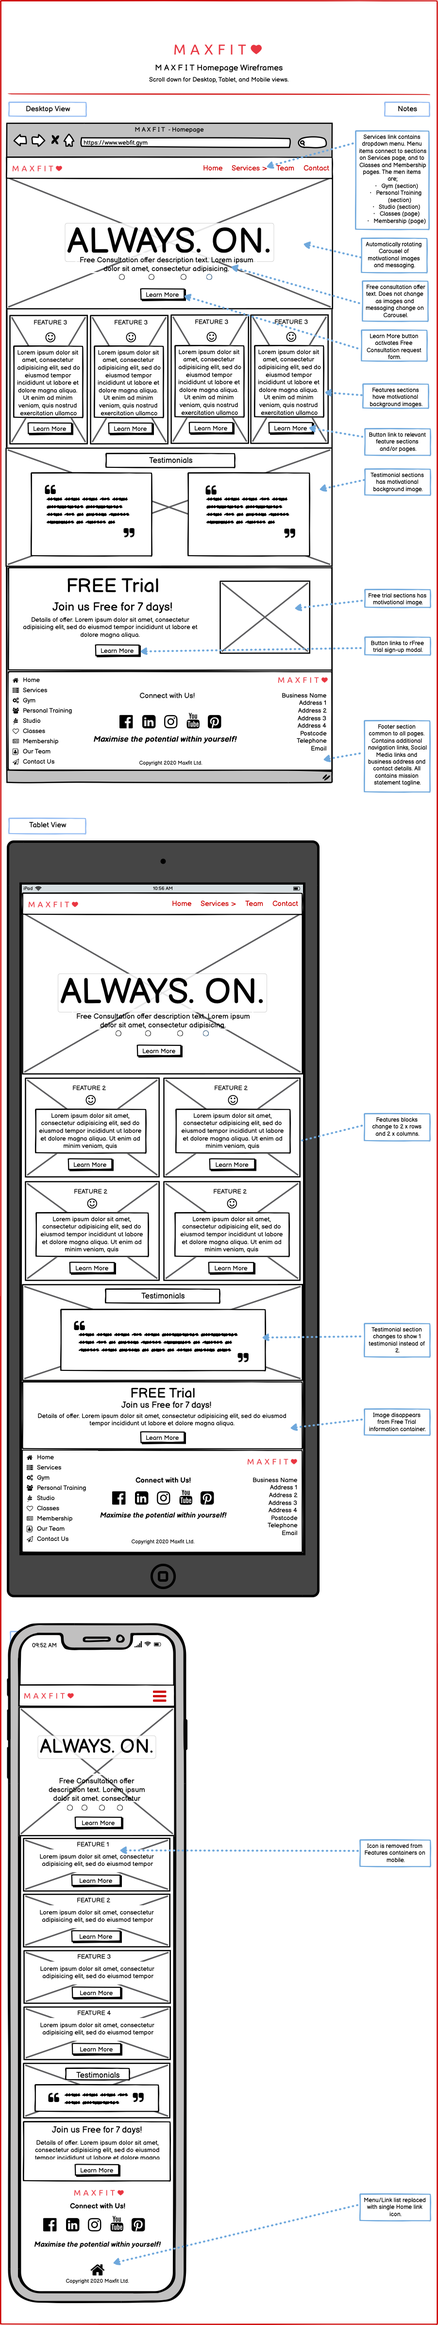
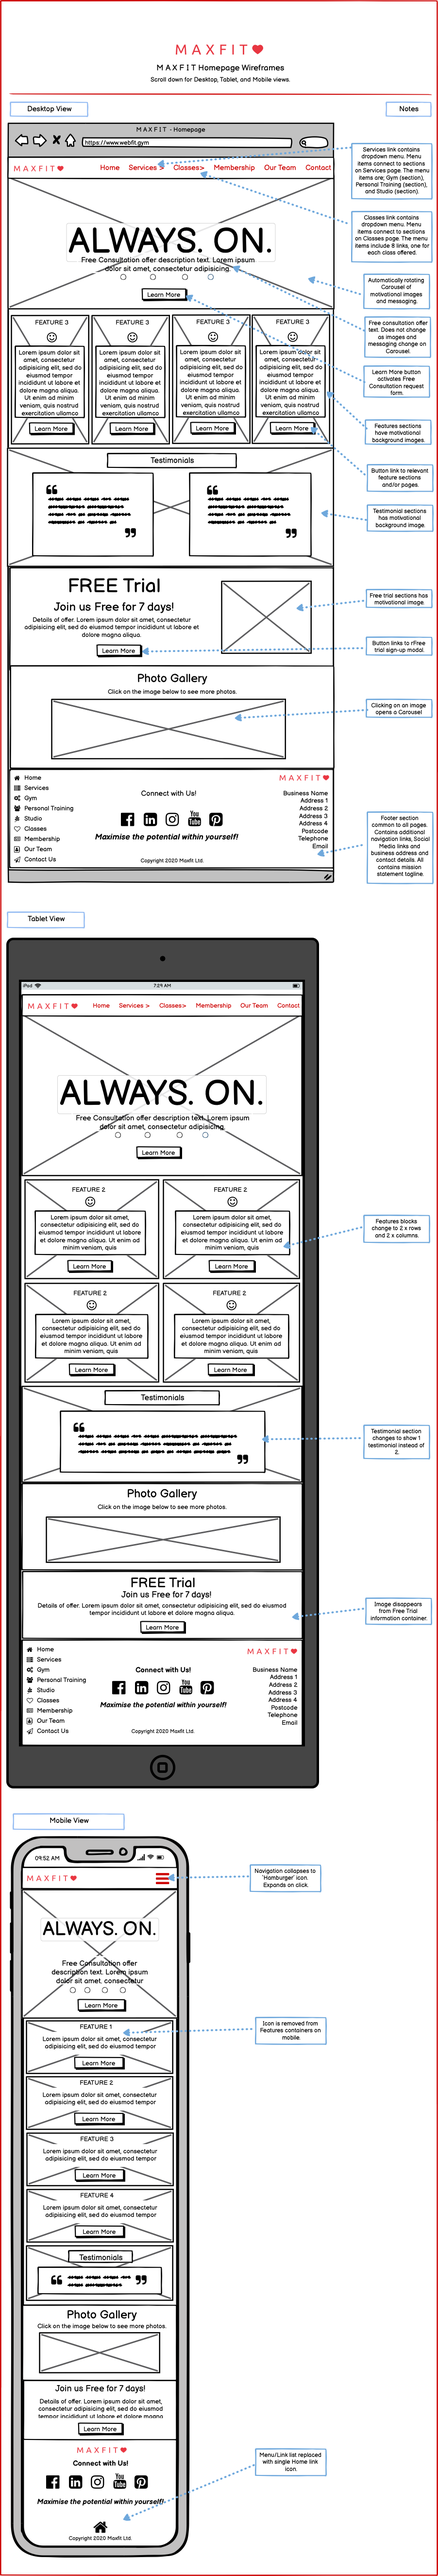
Update homepage wireframe and sitemap

diff --git a/index.html b/index.html
@@ -9,12 +9,36 @@
     <title>M A X F I T - Home</title>
 </head>
 <body>
+<!--------- Free Consultation Modal ------------------------------------------------------------------>
+<div class="modal" id="consultation-modal" tabindex="-1">
+  <div class="modal-dialog modal-xl">
+    <div class="modal-content">
+      <div class="modal-header">
+        <h5 class="modal-title">Free Consultation</h5>
+        <button type="button" class="close" data-dismiss="modal" aria-label="Close">
+          <span aria-hidden="true">&times;</span>
+        </button>
+      </div>
+      <div class="modal-body">  
+        <div>
+        <h2>Free Consultation Form</h2> 
+        </div>
+        </div>
+      <div class="modal-footer">
+        <button type="button" class="btn btn-secondary" data-dismiss="modal">Close</button>
+        <button type="button" class="btn btn-primary">Save changes</button>
+      </div>
+    </div>
+  </div>
+</div>
+<!--------- Free Consultation Modal ------------------------------------------------------------------>
+
 <!--------- Bootstrap Carousel Modal Gallery --------------------------------------------------------->
 <div class="modal" id="gallery-modal" tabindex="-1">
   <div class="modal-dialog modal-xl">
     <div class="modal-content">
       <div class="modal-header">
-        <h5 class="modal-title">Modal title</h5>
+        <h5 class="modal-title">Photo Gallery</h5>
         <button type="button" class="close" data-dismiss="modal" aria-label="Close">
           <span aria-hidden="true">&times;</span>
         </button>
@@ -134,7 +158,7 @@
       <div class="carousel-caption d-none d-md-block">
         <h1>First slide label</h1>
         <h3>Nulla vitae elit libero, a pharetra augue mollis interdum.</h3>
-        <button><h2>Test Me!</h2></button>
+        <button type="button" class="btn bnt-light" data-toggle="modal" data-target="#consultation-modal">Test Me!</button>
       </div>
     </div>
     <div class="carousel-item">

diff --git a/README.md b/README.md
@@ -114,7 +114,7 @@ Please see below details of 'Client Stories' to detail the requirements of the b
 
 #### Information Architecture: ####
 
-The structure and outline of page sections is outlined in the Sitemap. Click the link to view the <a href="assets/readme-assets/maxfit-sitemap-updated.png"><strong>Sitemap.</strong></a>
+The structure and outline of page sections is outlined in the Sitemap. Click the link to view the <a href="assets/readme-assets/maxfit-sitemap-final.png"><strong>Sitemap.</strong></a>
 
 
 #### 4. The Skeleton Plane ####
